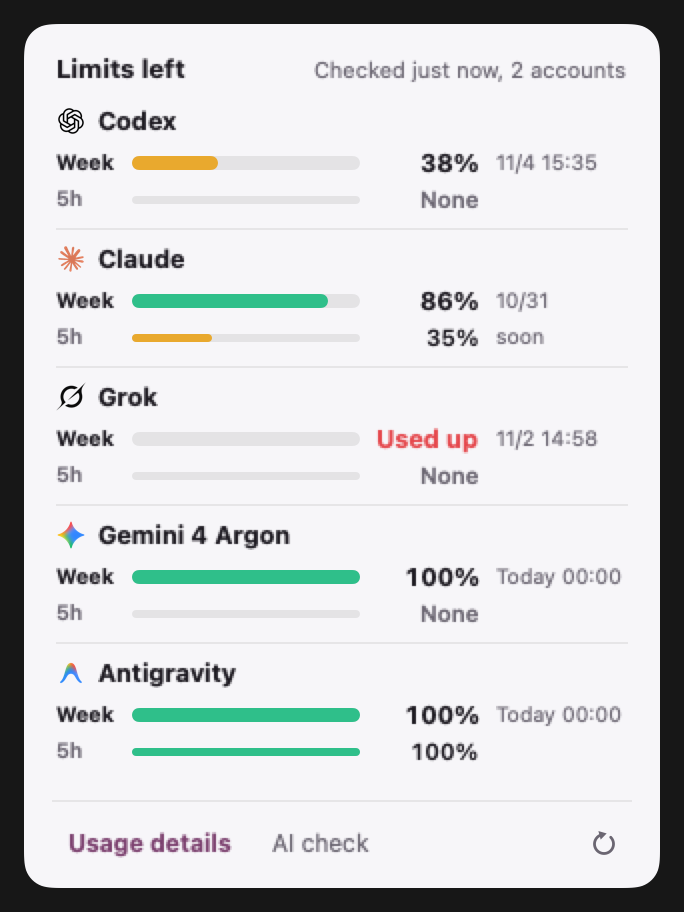
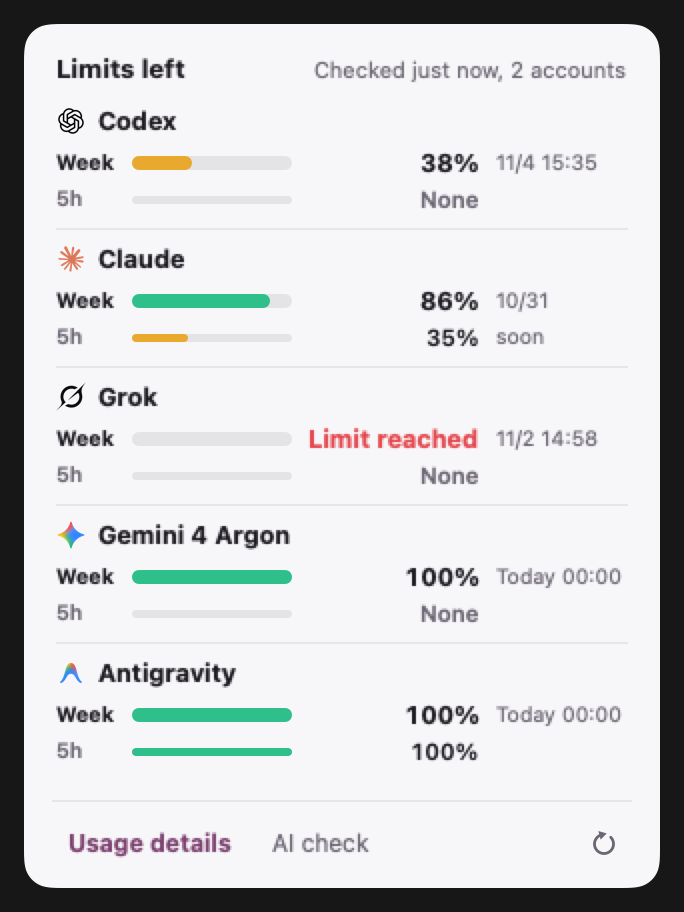
Used-up limits read 소진 / Limit reached (was 다 씀 / Used up), the wording Claude Code, Codex and other usage trackers use; English value column 86 pt so it fits, Korean unchanged; WRITING.md updated; 1.0.8

diff --git a/mac/Tests/LogicTests.swift b/mac/Tests/LogicTests.swift
@@ -175,7 +175,7 @@ do {
     let es = MenuBarStrip.entries(main: [cx, cl, named(Quota.fail("서버 오류 500", transient: true), "Grok")], ag: [named(Quota.noLoginFound(), "Gemini")])
     check(es.map { $0.logo } == ["codex", "claude"], "menu bar C: unknown services hidden")
     check(es.map { MenuBarStrip.numberText($0, now: nowM, tz: tzS) } == ["37", "월"], "menu bar C: numbers without a % sign, used-up shows the refill weekday")
-    check(MenuBarStrip.tooltip(es, now: nowM, tz: tzS) == "Codex 주간 37% 남음\nClaude 주간 다 씀, 월 11:55에 다시 차요", "menu bar C: tooltip, one line per item")
+    check(MenuBarStrip.tooltip(es, now: nowM, tz: tzS) == "Codex 주간 37% 남음\nClaude 주간 소진, 월 11:55에 다시 차요", "menu bar C: tooltip, one line per item")
     let c5 = Usage.ok(80); c5.windows = [UsageWindow(key: "seven_day", used: 20, reset: nil), UsageWindow(key: "five_hour", used: 90, reset: nil), UsageWindow(key: "seven_day_opus", used: 99, reset: nil)]
     // weekly choice (2026-10-30): the number is always the weekly limit, even when the 5-hour window is lower
     let w5 = MenuBarStrip.weekly(c5)
@@ -222,7 +222,7 @@ do {
     let order = MenuBarStrip.entries(main: [cx, cl, grUsed], ag: agQ)
     check(order.map { $0.logo } == ["codex", "claude", "grok", "gemini", "antigravity"], "order: fixed Codex, Claude, Grok, Gemini 4 Argon, Antigravity")
     check(order.map { MenuBarStrip.numberText($0, now: nowM, tz: tzS) } == ["37", "월", "23시", "17", "100"], "order: used-up shows refill day or hour, usable shows the number")
-    check(MenuBarStrip.tooltip(order, now: nowM, tz: tzS) == "Codex 주간 37% 남음\nClaude 주간 다 씀, 월 11:55에 다시 차요\nGrok 주간 다 씀, 오늘 23:19에 다시 차요\nGemini 4 Argon 주간 17% 남음\nAntigravity(Gemini, Claude, GPT) 주간 100% 남음", "tooltip: all items in the new order, full text")
+    check(MenuBarStrip.tooltip(order, now: nowM, tz: tzS) == "Codex 주간 37% 남음\nClaude 주간 소진, 월 11:55에 다시 차요\nGrok 주간 소진, 오늘 23:19에 다시 차요\nGemini 4 Argon 주간 17% 남음\nAntigravity(Gemini, Claude, GPT) 주간 100% 남음", "tooltip: all items in the new order, full text")
     // refill label: local weekday, the hour within 24 hours
     check(MenuBarStrip.refillLabel(atS(11, 2, 12, 0), now: nowS, tz: tzS) == "월" && MenuBarStrip.refillLabel(atS(11, 4, 12, 43), now: nowS, tz: tzS) == "수", "refill label: Korean weekday")
     check(MenuBarStrip.refillLabel(atS(10, 31, 14, 0), now: nowS, tz: tzS) == "14시" && MenuBarStrip.refillLabel(atS(10, 30, 23, 59), now: nowS, tz: tzS) == "23시", "refill label: the hour when less than 24 hours away")
@@ -294,9 +294,9 @@ do {
     let g12 = Design.gauge(claude(70, 12), logo: "claude", now: now, tz: tz)
     check(g12.second == "5시간 12%" && g12.secondReset == "01:19에 다시 차요" && !g12.secondUsedUp, "ring: a low 5-hour window adds when it fills again")
     let g0 = Design.gauge(claude(99, 0), logo: "claude", now: now, tz: tz)
-    check(g0.percentText == "99" && g0.tone == .green && g0.second == "5시간 다 씀" && g0.secondReset == "01:19에 다시 차요" && g0.secondUsedUp,
-          "ring: 5-hour used up keeps the weekly ring, the line says 다 씀 and the refill time")
-    check(g0.detail == "주간 99% 남음\n5시간 다 씀, 01:19에 다시 차요", "ring: tooltip has the weekly and the 5-hour line")
+    check(g0.percentText == "99" && g0.tone == .green && g0.second == "5시간 소진" && g0.secondReset == "01:19에 다시 차요" && g0.secondUsedUp,
+          "ring: 5-hour used up keeps the weekly ring, the line says 소진 and the refill time")
+    check(g0.detail == "주간 99% 남음\n5시간 소진, 01:19에 다시 차요", "ring: tooltip has the weekly and the 5-hour line")
     let grokOnly = Usage.ok(40); grokOnly.windows = [UsageWindow(key: "weekly", used: 60, reset: nil)]
     check(Design.gauge(grokOnly, logo: "grok", now: now, tz: tz).second == nil, "ring: no other window, no second line")
     check(Design.gauge(claude(0, 100), logo: "claude", now: now, tz: tz).second == nil, "ring: weekly used up keeps the old look, no 5-hour line")
@@ -308,7 +308,7 @@ do {
           "marker: 0% in the 5-hour window blocks, the item stays with its weekly value")
     check(MenuBarStrip.numberText(es[0], now: now, tz: tz) == "99" && MenuBarStrip.blockedText(es[0], now: now, tz: tz) == "1시"
           && MenuBarStrip.barRemaining(es[0]) == 0, "marker: weekly number, empty bar, refill hour like a used-up item")
-    check(MenuBarStrip.tooltip(es, now: now, tz: tz) == "Claude 주간 99% 남음\n5시간 다 씀, 01:19에 다시 차요", "marker: tooltip")
+    check(MenuBarStrip.tooltip(es, now: now, tz: tz) == "Claude 주간 99% 남음\n5시간 소진, 01:19에 다시 차요", "marker: tooltip")
     let open = MenuBarStrip.entries(main: [none, claude(99, 1)], ag: [])[0]
     check(open.blocked == nil && MenuBarStrip.blockedText(open, now: now, tz: tz) == nil && MenuBarStrip.barRemaining(open) == 99, "marker: 1% left is not blocked")
     check(MenuBarStrip.entries(main: [none, claude(99, 1.5)], ag: [])[0].blocked == nil && MenuBarStrip.entries(main: [none, claude(99, 0.4)], ag: [])[0].blocked == nil,
@@ -624,7 +624,7 @@ do {
         check(rg.five?.value == "없음" && rg.five?.muted == true && rg.five?.tone == .off, "row: no 5-hour window reads 없음")
         let u = Usage.ok(80); u.name = "Claude"; u.lastOk = nowR; u.windows = [UsageWindow(key: "five_hour", used: 100, reset: nowR.addingTimeInterval(600))]
         let ru = Design.row(u, logo: "claude", name: "Claude", ag: false, now: nowR, tz: tzR)
-        check(ru.five?.value == "다 씀" && ru.five?.emphasis == true && ru.weekly.value == "80%", "row: a used-up 5-hour window is red, the weekly line stays")
+        check(ru.five?.value == "소진" && ru.five?.emphasis == true && ru.weekly.value == "80%", "row: a used-up 5-hour window is red, the weekly line stays")
         let o = Usage.ok(81); o.name = "Claude"; o.lastOk = nowR.addingTimeInterval(-6 * 3600); o.failing = true; o.stale = true; o.error = "토큰 갱신 대기"
         let ro = Design.row(o, logo: "claude", name: "Claude", ag: false, now: nowR, tz: tzR)
         check(ro.staleText == "6시간 전 값" && ro.weekly.tone == .stale && ro.detail.contains("토큰 갱신 대기"), "row: an old value is grey with its age and the reason in the tooltip")
@@ -680,7 +680,7 @@ do {
 do {
     L.mode = "en"; L.apply()
     check(!L.ko && L.t("가", "a") == "a", "en: L.t picks English")
-    check(MenuBarStrip.weekLabel == "Week" && MenuBarStrip.fiveHourLabel == "5h" && Design.usedUp == "Used up", "en: window labels and used up")
+    check(MenuBarStrip.weekLabel == "Week" && MenuBarStrip.fiveHourLabel == "5h" && Design.usedUp == "Limit reached", "en: window labels and used up")
     let five = MenuBarStrip.shortLabel(UsageWindow(key: "primary_window", used: 1, seconds: 18000, reset: nil))
     let day = MenuBarStrip.shortLabel(UsageWindow(key: "primary_window", used: 1, seconds: 86400, reset: nil))
     check(five == "5h" && day == "1d", "en: short window names")
@@ -705,13 +705,13 @@ do {
     let ce = Usage.ok(81); ce.name = "Claude"; ce.resetsAt = nowE.addingTimeInterval(5 * 86400); ce.lastOk = nowE
     ce.windows = [UsageWindow(key: "seven_day", used: 19, reset: ce.resetsAt), UsageWindow(key: "five_hour", used: 100, reset: nowE.addingTimeInterval(600))]
     let re = Design.row(ce, logo: "claude", name: "Claude", ag: false, now: nowE, tz: tzE)
-    check(re.weekly.label == "Week" && re.weekly.value == "81%" && re.five?.label == "5h" && re.five?.value == "Used up"
-          && re.detail.contains("5h Used up, refills ") && re.detail.contains("Week 81% left, resets "), "en: popover row")
+    check(re.weekly.label == "Week" && re.weekly.value == "81%" && re.five?.label == "5h" && re.five?.value == "Limit reached"
+          && re.detail.contains("5h Limit reached, refills ") && re.detail.contains("Week 81% left, resets "), "en: popover row")
     let ge = Usage.ok(79); ge.name = "Grok"; ge.lastOk = nowE
     check(Design.row(ge, logo: "grok", name: "Grok", ag: false, now: nowE, tz: tzE).five?.value == "None", "en: no 5-hour limit")
     let se = Usage.ok(80); se.lastOk = nowE; se.windows = [UsageWindow(key: "five_hour", used: 100, reset: nowE.addingTimeInterval(-60))]
     let rs = Design.row(se, logo: "claude", name: "Claude", ag: false, now: nowE, tz: tzE)
-    check(rs.five?.reset == "soon" && rs.detail.contains("5h Used up, refills soon"), "en: a passed reset reads soon")
+    check(rs.five?.reset == "soon" && rs.detail.contains("5h Limit reached, refills soon"), "en: a passed reset reads soon")
     let tip = MenuBarStrip.tooltip([MenuBarStrip.Entry(logo: "codex", name: "Codex", window: MenuBarStrip.weekLabel, remaining: 37, reset: nil, stale: true)], now: nowE)
     check(tip == "Codex Week 37% left (old value)", "en: menu bar tooltip")
     var mr = ManualRefresh(); _ = mr.begin()

diff --git a/mac/Sources/PopoverView.swift b/mac/Sources/PopoverView.swift
@@ -116,7 +116,7 @@ struct LineView: View {
                 .font(.system(size: main ? 12.5 : 11.5, weight: main ? .bold : .semibold)).monospacedDigit()
                 .foregroundColor(Color(l.emphasis ? Palette.red : l.muted || l.tone == .stale ? scheme.sub : scheme.fg))
                 .lineLimit(1).minimumScaleFactor(0.8)
-                .frame(width: L.ko ? 40 : 52, alignment: .trailing)   // "Used up" needs more room than "다 씀"
+                .frame(width: L.ko ? 40 : 86, alignment: .trailing)   // "Limit reached" needs more room than "소진"
             Text(l.reset).font(.system(size: 10.5)).foregroundColor(Color(scheme.sub))
                 .lineLimit(1).minimumScaleFactor(0.75)
                 .frame(width: 66, alignment: .leading)

diff --git a/mac/Sources/Design.swift b/mac/Sources/Design.swift
@@ -39,7 +39,7 @@ enum Design {
     // shared words (both languages); "확인 전" is the placeholder error of a service not read yet
     static var notChecked: String { L.t("확인 전", "Not read yet") }
     static func isNotChecked(_ e: String) -> Bool { e == "확인 전" || e == "Not read yet" }
-    static var usedUp: String { L.t("다 씀", "Used up") }
+    static var usedUp: String { L.t("소진", "Limit reached") }
     static var soon: String { L.t("곧", "soon") }
     static func left(_ pct: String) -> String { L.t(pct + "% 남음", pct + "% left") }
     static func refillsAt(_ t: String) -> String { L.t(t + "에 다시 차요", "refills " + t) }

diff --git a/mac/Sources/App.swift b/mac/Sources/App.swift
@@ -480,7 +480,7 @@ enum HabitGate {
 }
 
 // shown in the log at launch, so a rebuilt and reinstalled app can be told apart from the previous one
-enum AppVersion { static let string = "1.0.7" }
+enum AppVersion { static let string = "1.0.8" }
 
 @main
 struct UsageGaugeMain {

diff --git a/WRITING.md b/WRITING.md
@@ -2,11 +2,11 @@
 
 화면 문구, 툴팁, 메뉴, AI 진단 문장에 씁니다. 원본은 ux-writing 스킬이고 여기엔 이 앱에 필요한 것만 둡니다.
 
-1. 문장은 해요체로 짧게 써요. 칸 안 짧은 표시는 명사형으로 써요. 예: "37% 남음", "다 씀"
+1. 문장은 해요체로 짧게 써요. 칸 안 짧은 표시는 명사형으로 써요. 예: "37% 남음", "소진"(한도를 다 씀)
 2. "적용", "진행", "처리" 같은 시스템 말은 빼고, 명사를 잇지 말고 동사로 써요.
 3. 숫자를 먼저 보여 줘요. 퍼센트는 정수, 토큰은 만과 억으로 써요.
 4. 시간은 "월 12:00", "2일 16시간 뒤", "3분 전 확인"처럼 써요.
-5. 같은 뜻엔 같은 말을 써요: 남음, 다 씀, 다시 차요, 한도를 쓴 양, 다시 읽기(캐시), 새로 저장(캐시)
+5. 같은 뜻엔 같은 말을 써요: 남음, 소진, 다시 차요, 한도를 쓴 양, 다시 읽기(캐시), 새로 저장(캐시)
 6. 서비스와 모델 이름은 그대로 쓰고, 내부 약어(5h, 3p, WTU)는 우리말로 바꿔요.
 7. 할 일이 있으면 다음 행동을 한 문장으로 붙여요. 모르는 상태도 할 일을 적어요. 예: "로그인하면 보여요"
 8. 추정한 숫자는 화면에 한 번만 "요금 기준 추정"이라고 밝혀요.
